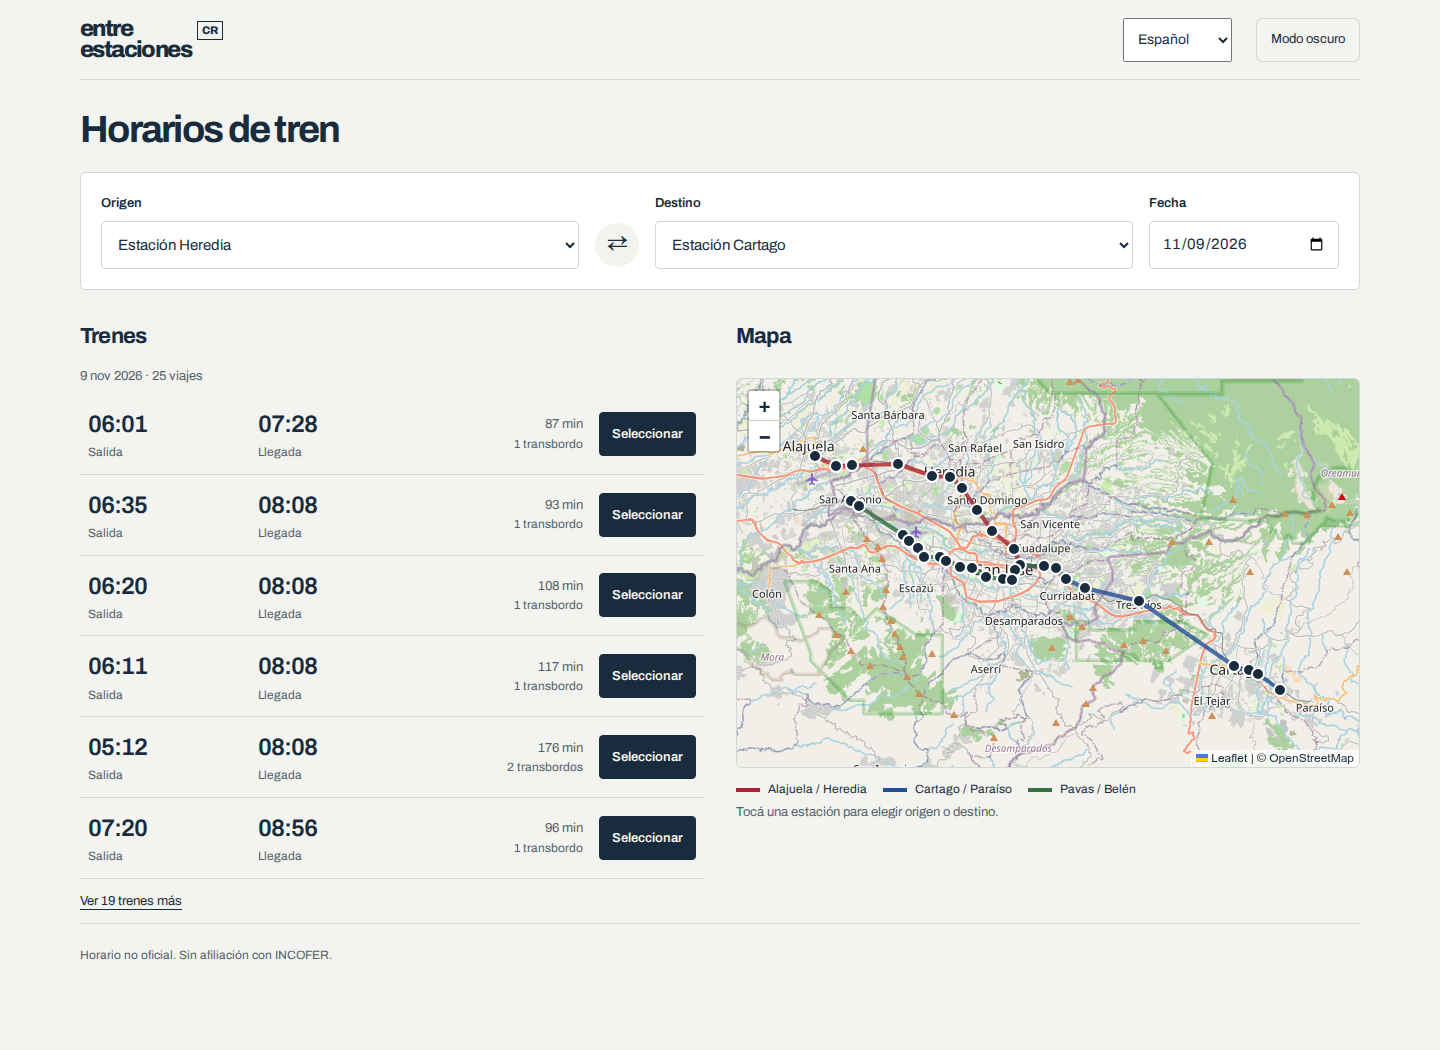
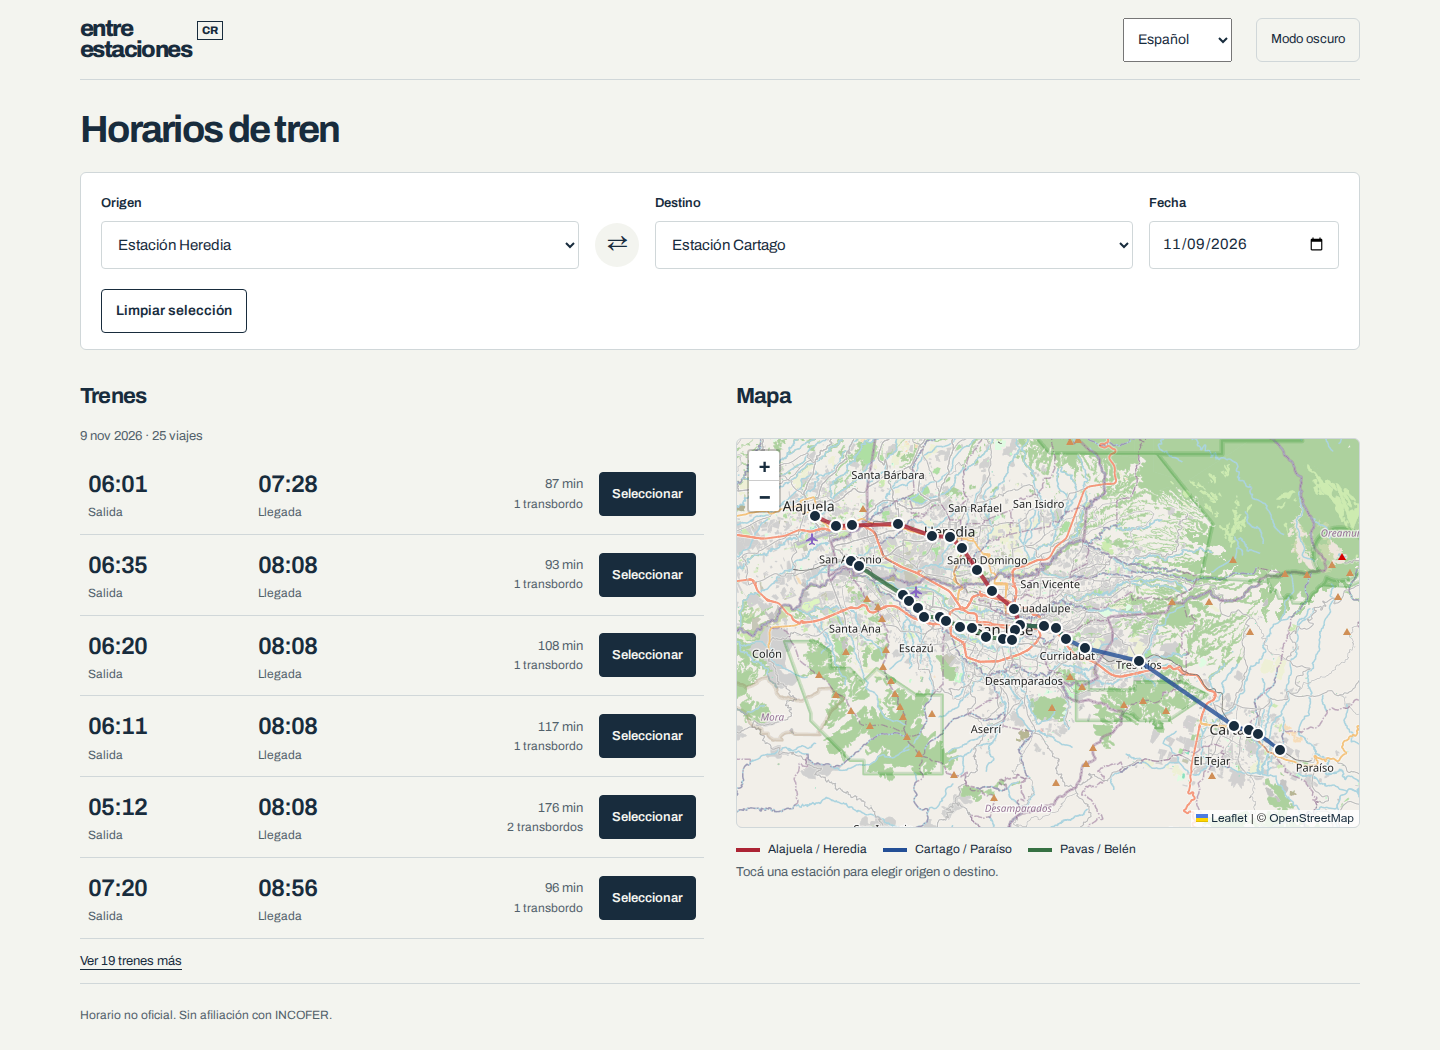
Show clear selection beside station controls and reset endpoints

Changed region(s): [[0.3438, 0.3352, 0.9688, 0.8838], [0.0625, 0.2743, 0.2188, 0.9752], [0.5, 0.3048, 0.5625, 0.3352]]

diff --git a/src/App.vue b/src/App.vue
@@ -14,8 +14,8 @@ try {
 } catch {}
 const language = ref(['en', 'es'].includes(params.get('lang')) ? params.get('lang') : ['en', 'es'].includes(savedLanguage) ? savedLanguage : navigator.language.startsWith('en') ? 'en' : 'es');
 const dark = ref(savedTheme ? savedTheme === 'dark' : matchMedia('(prefers-color-scheme: dark)').matches);
-const from = ref(Object.hasOwn(stationNames, params.get('from')) ? params.get('from') : 'heredia');
-const to = ref(Object.hasOwn(stationNames, params.get('to')) ? params.get('to') : 'cartago');
+const from = ref(params.get('from') === '' || Object.hasOwn(stationNames, params.get('from')) ? params.get('from') : 'heredia');
+const to = ref(params.get('to') === '' || Object.hasOwn(stationNames, params.get('to')) ? params.get('to') : 'cartago');
 const date = ref(validDate(params.get('date') || '') ? params.get('date') : costaRicaNow().date);
 const selected = shallowRef(null);
 const showAll = ref(false);
@@ -29,7 +29,7 @@ const notFound = !['/', '/index.html'].includes(location.pathname);
 const t = computed(() => messages[language.value]);
 const station = id => stationLabel(id, language.value);
 const stationIds = computed(() => Object.keys(stationNames).sort((a, b) => station(a).localeCompare(station(b), language.value)));
-const result = computed(() => planJourneys(routes, from.value, to.value, date.value, '00:00'));
+const result = computed(() => !from.value || !to.value ? { state: 'empty', all: [], upcoming: [] } : planJourneys(routes, from.value, to.value, date.value, '00:00'));
 const visibleJourneys = computed(() => showAll.value ? result.value.upcoming : result.value.upcoming.slice(0, 6));
 const formatDate = value => new Intl.DateTimeFormat(language.value === 'en' ? 'en-GB' : 'es-CR', { day: 'numeric', month: 'short', year: 'numeric', timeZone: 'UTC' }).format(new Date(`${value}T12:00:00Z`));
 const dateSummary = computed(() => validDate(date.value) ? `${formatDate(date.value)} · ${t.value.trips(result.value.upcoming.length)}` : '');
@@ -62,10 +62,12 @@ watch([from, to, selected, language], () => {
   mapController?.setLanguage();
 });
 async function clearSelection() {
+  from.value = '';
+  to.value = '';
   selected.value = null;
   detailsOpen.value = false;
   await nextTick();
-  document.querySelector('.select-journey')?.focus({ preventScroll: true });
+  document.getElementById('from')?.focus({ preventScroll: true });
 }
 function swapStations() { [from.value, to.value] = [to.value, from.value]; }
 async function selectJourney(option) {
@@ -113,11 +115,12 @@ onBeforeUnmount(() => { disposed = true; mapController?.destroy(); });
       <h1>{{ t.title }}</h1>
       <section class="planner" :aria-label="t.planner">
         <form id="journey-form" @submit.prevent>
-          <div class="field"><label for="from">{{ t.from }}</label><select id="from" v-model="from" required><option v-for="id in stationIds" :key="id" :value="id">{{ station(id) }}</option></select></div>
+          <div class="field"><label for="from">{{ t.from }}</label><select id="from" v-model="from" required><option value="" disabled>{{ t.chooseStation }}</option><option v-for="id in stationIds" :key="id" :value="id">{{ station(id) }}</option></select></div>
           <button id="swap" class="swap" type="button" :aria-label="t.swap" @click="swapStations">⇄</button>
-          <div class="field"><label for="to">{{ t.to }}</label><select id="to" v-model="to" required><option v-for="id in stationIds" :key="id" :value="id">{{ station(id) }}</option></select></div>
+          <div class="field"><label for="to">{{ t.to }}</label><select id="to" v-model="to" required><option value="" disabled>{{ t.chooseStation }}</option><option v-for="id in stationIds" :key="id" :value="id">{{ station(id) }}</option></select></div>
           <div class="field"><label for="date">{{ t.date }}</label><input id="date" v-model="date" type="date" required /></div>
         </form>
+        <button id="clear-selection" type="button" @click="clearSelection">{{ t.clear }}</button>
       </section>
       <div class="journey-layout">
         <section class="departures" aria-labelledby="departures-title" id="departures-section">
@@ -136,7 +139,6 @@ onBeforeUnmount(() => { disposed = true; mapController?.destroy(); });
             </li>
           </ul>
           <button v-if="result.upcoming.length > 6" id="more-trains" type="button" class="text-button" :aria-expanded="showAll" @click="showAll = !showAll">{{ showAll ? t.less : t.more(result.upcoming.length - 6) }}</button>
-          <button v-if="selected" id="clear-selection" type="button" class="text-button" @click="clearSelection">{{ t.clear }}</button>
           <details v-if="selected" id="journey-details" class="journey-details" :open="detailsOpen" @toggle="detailsOpen = $event.target.open">
             <summary>{{ t.details }}</summary>
             <h3 id="stops-title" ref="stopsTitle" tabindex="-1">{{ t.steps }}</h3>

diff --git a/styles.css b/styles.css
@@ -1360,4 +1360,14 @@ summary:hover {
   .simple-planner .language-picker { width: 100px; padding: 8px 10px; font-size: 12px; }
   .simple-planner .theme-toggle { white-space: nowrap; }
 }
-#clear-selection { margin-left: 16px; }
+#clear-selection {
+  min-height: 44px;
+  margin: 0 20px 16px;
+  padding: 8px 14px;
+  border: 1px solid var(--ink);
+  border-radius: 4px;
+  background: var(--surface);
+  font-size: 14px;
+  font-weight: 600;
+}
+#clear-selection:hover { background: var(--ink); color: var(--ground); }
